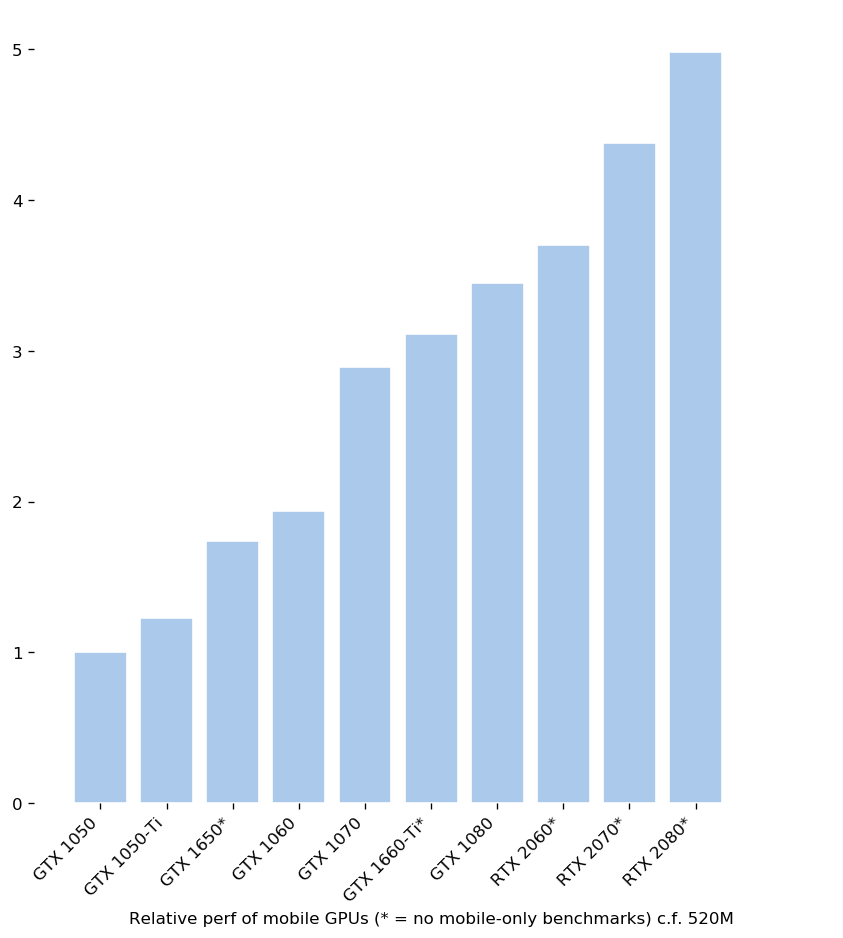
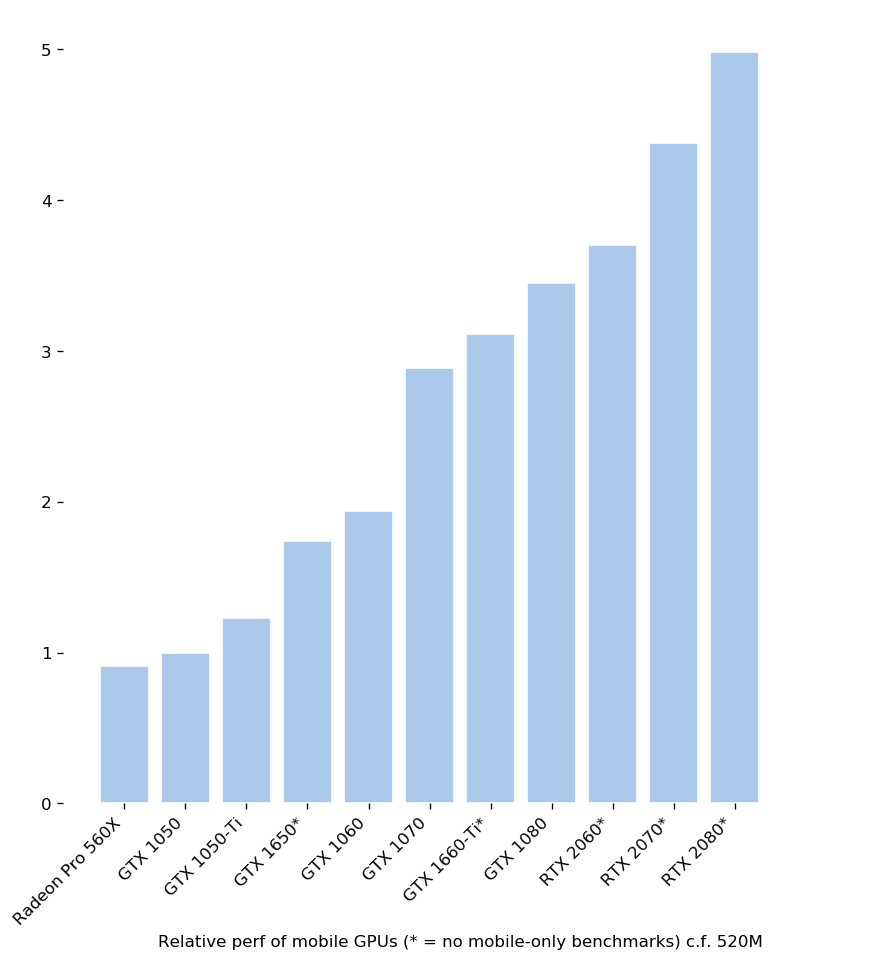
add macbook pro 560x for comparison

diff --git a/generate_graph.py b/generate_graph.py
@@ -17,17 +17,18 @@ import seaborn as sns
 # -   has maxq variant
 METRICS = OrderedDict(
     sorted({
-        "GT 520M":      (2.26 / 29.3, True,  False),
-        "GTX 1050":     (1.,          True,  False),
-        "GTX 1050-Ti":  (1.23,        True,  True),
-        "GTX 1070":     (2.89,        True,  True),
-        "GTX 1080":     (3.45,        True,  True),
-        "GTX 1650":     (1.74,        False, False),
-        "GTX 1060":     (1.94,        True,  True),
-        "GTX 1660-Ti":  (3.11,        False, False),
-        "RTX 2060":     (3.7,         False, False),
-        "RTX 2070":     (4.38,        False, True),
-        "RTX 2080":     (4.98,        False, True),
+        "GT 520M":         (2.26 / 29.3, True,  False),
+        "GTX 1050":        (1.,          True,  False),
+        "Radeon Pro 560X": (26.6 / 29.3, True,  False),
+        "GTX 1050-Ti":     (1.23,        True,  True),
+        "GTX 1070":        (2.89,        True,  True),
+        "GTX 1080":        (3.45,        True,  True),
+        "GTX 1650":        (1.74,        False, False),
+        "GTX 1060":        (1.94,        True,  True),
+        "GTX 1660-Ti":     (3.11,        False, False),
+        "RTX 2060":        (3.7,         False, False),
+        "RTX 2070":        (4.38,        False, True),
+        "RTX 2080":        (4.98,        False, True),
     }.items(), key=lambda x: x[1])
 )
 
